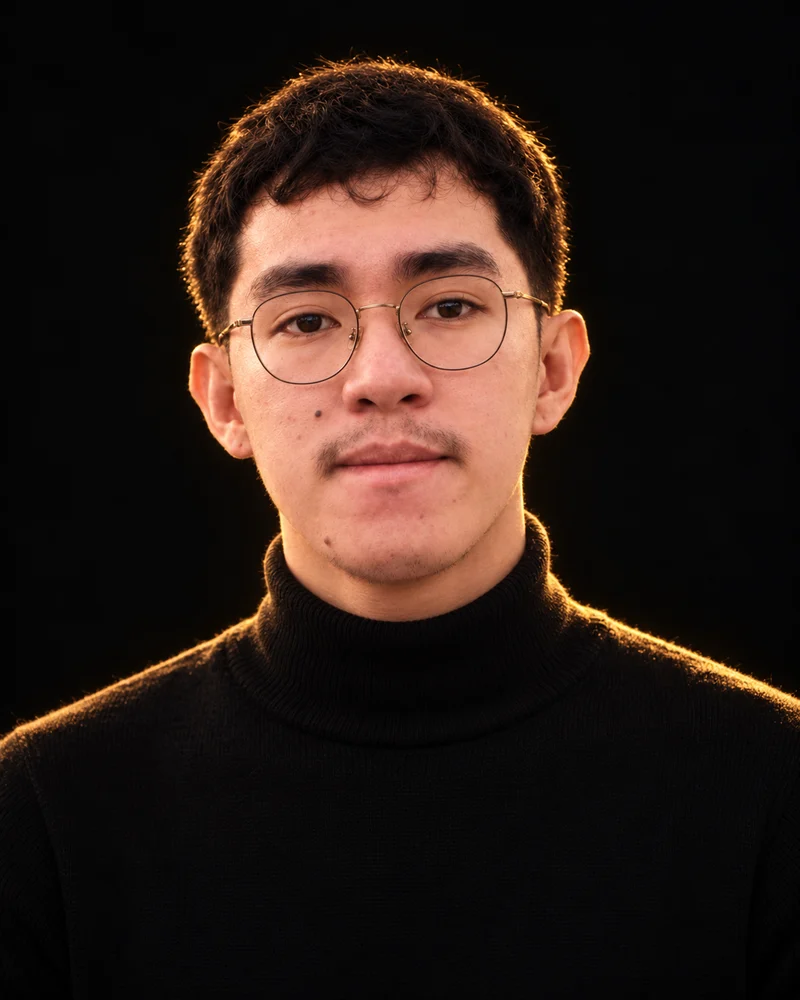
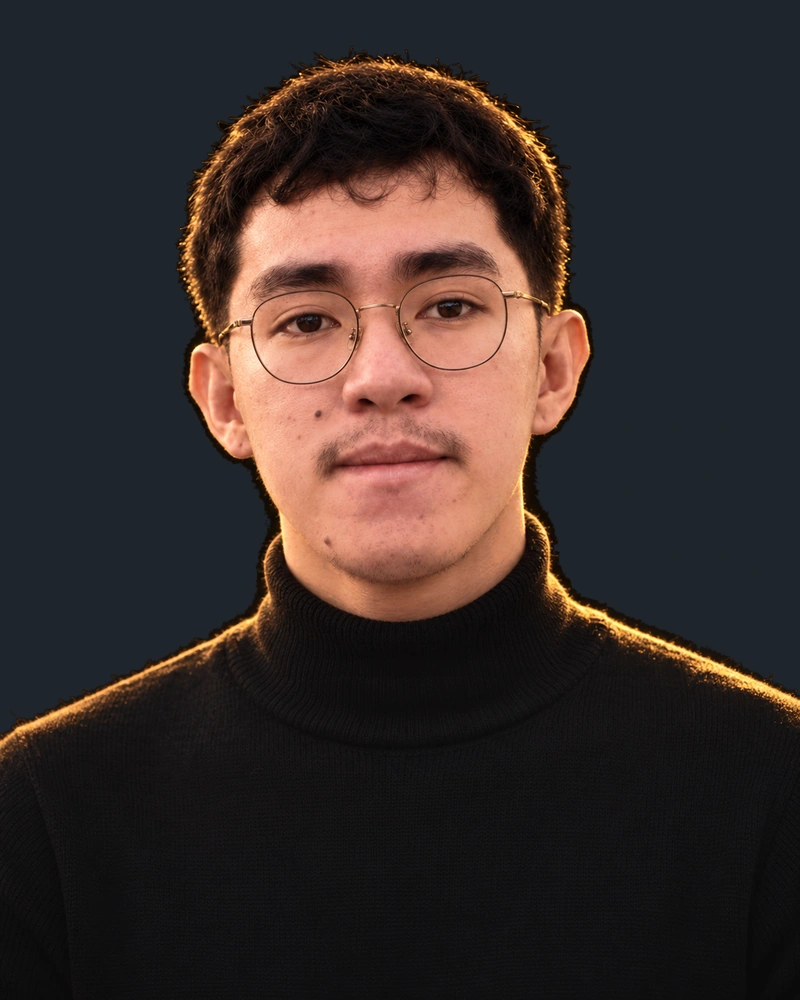
Refine portfolio portraits and role copy

diff --git a/src/portfolio-updates.css b/src/portfolio-updates.css
@@ -244,22 +244,33 @@ html[data-theme="light"] .project-cover {
 }
 .about-portrait-frame {
   position: relative;
+  aspect-ratio: 4 / 5;
   overflow: hidden;
   border-radius: var(--radius);
   border: 1px solid var(--line);
-  background: #09090b;
+  background: #20252b;
 }
 .about-portrait-frame[data-portrait="white"] {
-  background: #fafafa;
+  background: #f2efe9;
 }
 .about-portrait-photo {
+  position: absolute;
+  inset: 0;
   display: block;
   width: 100%;
-  height: auto;
+  height: 100%;
   aspect-ratio: 4 / 5;
   object-fit: cover;
   object-position: center;
   filter: none;
+  opacity: 0;
+  transition: opacity 350ms ease-in-out;
+}
+.about-portrait-photo[data-active="true"] {
+  opacity: 1;
+}
+.about-portrait-photo[data-portrait="black"] {
+  opacity: 1;
 }
 .portrait-theme-toggle {
   position: absolute;
@@ -275,6 +286,7 @@ html[data-theme="light"] .project-cover {
   background: transparent;
   color: #fafafa;
   cursor: pointer;
+  transition: color 0ms 175ms;
 }
 .portrait-theme-toggle img {
   display: block;
@@ -282,7 +294,9 @@ html[data-theme="light"] .project-cover {
   height: 22px;
   filter: brightness(0) invert(1);
   transform: rotate(0deg) scale(1);
-  transition: transform 250ms var(--ease);
+  transition:
+    transform 250ms var(--ease),
+    filter 0ms 175ms;
 }
 .about-portrait-frame[data-portrait="white"] .portrait-theme-toggle {
   color: #09090b;
@@ -347,6 +361,7 @@ html[data-theme="light"] .project-cover {
 }
 .background-date,
 .education-card .background-date {
+  font-family: inherit;
   font-size: var(--type-meta);
   line-height: 1.6;
 }
@@ -762,6 +777,7 @@ html[data-motion="reduced"] *::after {
 }
 .contact-content {
   min-width: 0;
+  background: #20252b;
   width: 100%;
   padding: clamp(20px, 3vw, 42px);
   margin-inline: auto;

diff --git a/src/components/AboutPortrait.tsx b/src/components/AboutPortrait.tsx
@@ -11,22 +11,31 @@ export function AboutPortrait({
   onThemeChange: (theme: Theme) => void;
 }) {
   const portraitColor = theme === "light" ? "black" : "white";
-  const portrait = portfolio.about.portraits[portraitColor];
   const bulb = portfolio.about.bulb;
   const [tooltipOpen, setTooltipOpen] = useState(false);
   const [keyboardFocus, setKeyboardFocus] = useState(false);
   return (
     <figure className="about-image">
       <div className="about-portrait-frame" data-portrait={portraitColor}>
-        <img
-          className="about-portrait-photo"
-          src={portrait.src}
-          width={portrait.width}
-          height={portrait.height}
-          alt={portrait.alt}
-          loading="lazy"
-          decoding="async"
-        />
+        {(["black", "white"] as const).map((color) => {
+          const portrait = portfolio.about.portraits[color];
+          const active = color === portraitColor;
+          return (
+            <img
+              key={color}
+              className="about-portrait-photo"
+              data-portrait={color}
+              data-active={active}
+              src={portrait.src}
+              width={portrait.width}
+              height={portrait.height}
+              alt={active ? portrait.alt : ""}
+              aria-hidden={!active}
+              loading="lazy"
+              decoding="async"
+            />
+          );
+        })}
         <Tooltip.Provider delayDuration={0}>
           <Tooltip.Root
             open={tooltipOpen || keyboardFocus}

diff --git a/src/App.tsx b/src/App.tsx
@@ -542,6 +542,7 @@ export default function PortfolioHome() {
               <h3>{about.education.qualification}</h3>
               <p>{about.education.institution}</p>
               <span className="background-detail">Bachelor’s degree</span>
+              <p>{about.education.description}</p>
               <div className="education-coursework">
                 <h4>Relevant coursework</h4>
                 <ul>

diff --git a/projects/portfolio/context/engineering-loop/design-tokens.md b/projects/portfolio/context/engineering-loop/design-tokens.md
@@ -12,11 +12,13 @@ October 21, 2026, latest user update. Extracted from the implemented components 
 | Primary action background | `#f4f4f5` | `#18181b` |
 | Primary action text       | `#18181b` | `#fafafa` |
 
-Contact surfaces use solid `#09090b` beside the full landscape on desktop and beneath it on mobile, `#fafafa` text, and `#e4e4e7` secondary text in both themes. The photo panel uses `#141416`; its image has an 8px radius. Feedback backing is `#09090bf2`. Hover raises text to white; focus uses a visible light neutral outline. Success and failure messages share the readable contact text role. The image itself is not covered or recolored.
+Contact surfaces use solid `#20252B` beside the full landscape on desktop and beneath it on mobile, `#fafafa` text, and `#e4e4e7` secondary text in both themes. The photo panel uses `#141416`; its image has an 8px radius. Feedback backing is `#09090bf2`. Hover raises text to white; focus uses a visible light neutral outline. Success and failure messages share the readable contact text role. The image itself is not covered or recolored.
 
 The About bulb control is 44x44px, inset 16px, with 22px artwork, transparent background, no border, and a pointer cursor. Black portrait/light mode uses white artwork; white portrait/dark mode uses black artwork. The keyboard focus ring uses the foreground color (`#fafafa` or `#09090b`) at 2px with a 2px offset and 6px corner radius. Hover and keyboard focus apply `rotate(45deg) scale(1.1)` with a 250ms transform transition using the shared easing. Pause/reduced motion removes the transition. The small Switch appearance tooltip uses 12px text, 6px/9px padding, 6px radius, an 8px gap, `#09090bf2` background, and `#fafafa` text. Tooltip hover remains available, Escape dismisses it, and keyboard focus keeps it visible through automatic scrolling. The transparent source is filtered to white or black; portrait colors remain unchanged. Theme changes add no portrait animation or loading placeholder.
 
 Typography: Cormorant Garamond display; Manrope body. Body 16px, meaningful metadata/actions 14px, incidental labels 12px. Headings use responsive display scales. Reading copy stays within approximately 65 characters.
+
+October 22, 2026 update: the About portraits supersede the unchanged-color/no-animation statement above. Black portrait/light theme uses a `#20252B` backdrop, lifted sweater shadows, and slightly softened orange rim lighting. White portrait/dark theme uses a `#F2EFE9` backdrop and restrained sweater highlights. The original source portraits remain intact. The white image fades over the opaque black image with `opacity 350ms ease-in-out`; bulb and focus colors switch at 175ms to retain contrast. Paused motion and system reduced motion remove these transitions. Inactive image descriptions are hidden from assistive technology. All education/training dates inherit the Manrope body font and share the 14px metadata style.
 
 Component radii: shared 18px, toolkit cards 16px on desktop, native image dialog 16px, image mats 6px. Spacing: 12/16/18/20/24/28/32/48/56px. Responsive page gutters range from 20px to 60px. Native section entrance duration is 360ms with `cubic-bezier(.2,.8,.2,1)`. UI state transitions use the existing 160/200ms durations and are disabled under pause/reduced motion.
 

diff --git a/projects/portfolio/context/engineering-loop/portrait-polish-checkpoint-2026-10-22.md b/projects/portfolio/context/engineering-loop/portrait-polish-checkpoint-2026-10-22.md
@@ -1,0 +1,21 @@
+# Portrait and copy refinement checkpoint
+
+## Completed work
+
+- Grade the two About portraits from retained originals with `scripts/refine-about-portraits.mjs`. Use #F2EFE9 for the white portrait backdrop and #20252B for the black portrait backdrop. Compress sweater highlights, lift dark fabric shadows, and slightly soften orange rim lighting without changing facial geometry or skin tones.
+- Use a 350ms crossfade with both image assets mounted in a reserved 4:5 frame. Switch bulb/focus colors at the midpoint. Preserve shared theme preferences, hover/focus tooltip, keyboard activation, motion preferences, and accessible active-image descriptions.
+- Apply the requested location and role copy, education description, matching date typography, and #20252B contact panel.
+- Verify production build/typecheck, 11 content contracts, and formatting. Three focused checks cover copy/date styles, portrait grading, responsive crossfade, persistence and reduced motion. Four existing portrait/layout checks and five bulb checks pass. The portrait/layout suite covers 1920/1440/1024/768/390/320px and both themes. Inspect portrait, education, and contact screenshots.
+- Confirm the resume file matches its existing Git object, `7aeadb27afaad6c54bf2806a17789b680ff0a2df`.
+
+## Scope and evidence
+
+- Keep the pre-existing task-tracker edit and October 21 publication checkpoint outside this commit. Preserve unrelated `.codex/`, `.impeccable/`, and ignored artifacts.
+- Evidence lives in ignored `artifacts/portrait-polish-2026-10-22/`. Preserve the initial contrast failure in `layout/`; final checks in `layout-final/` wait for the completed fade before sampling final-state contrast. The implementation also coordinates the bulb color at the fade midpoint.
+- Existing original-host publication is documented in the pre-existing October 21 checkpoint. It supersedes the earlier report that this host could not be published.
+
+## Next action
+
+- Commit the relevant portfolio files before publishing.
+- Change the currently public `vmargin/vmargin.github.io` repository to private before pushing updated source. Never restore public visibility to enable Pages. Verify whether this plan supports private-repository Pages and report the returned limitation if it does not.
+- Use the installed Sites plugin to update the existing public portfolio at https://vm.marginvalkenburgh.chatgpt.site/. Preserve its project ID and public audience.
